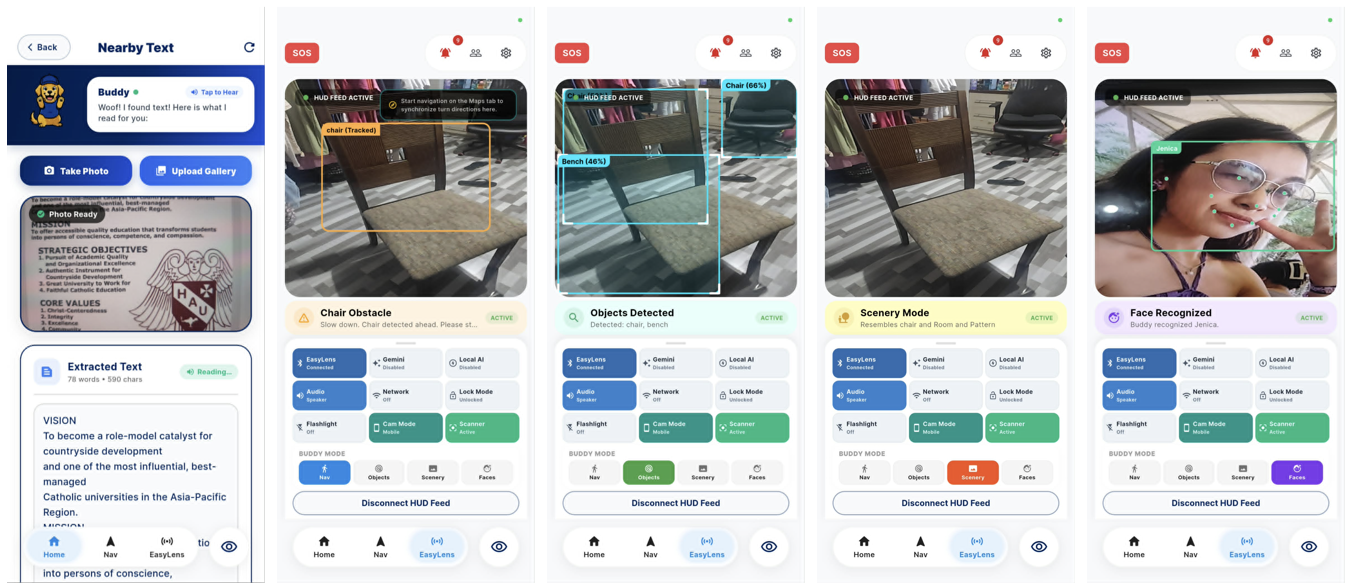
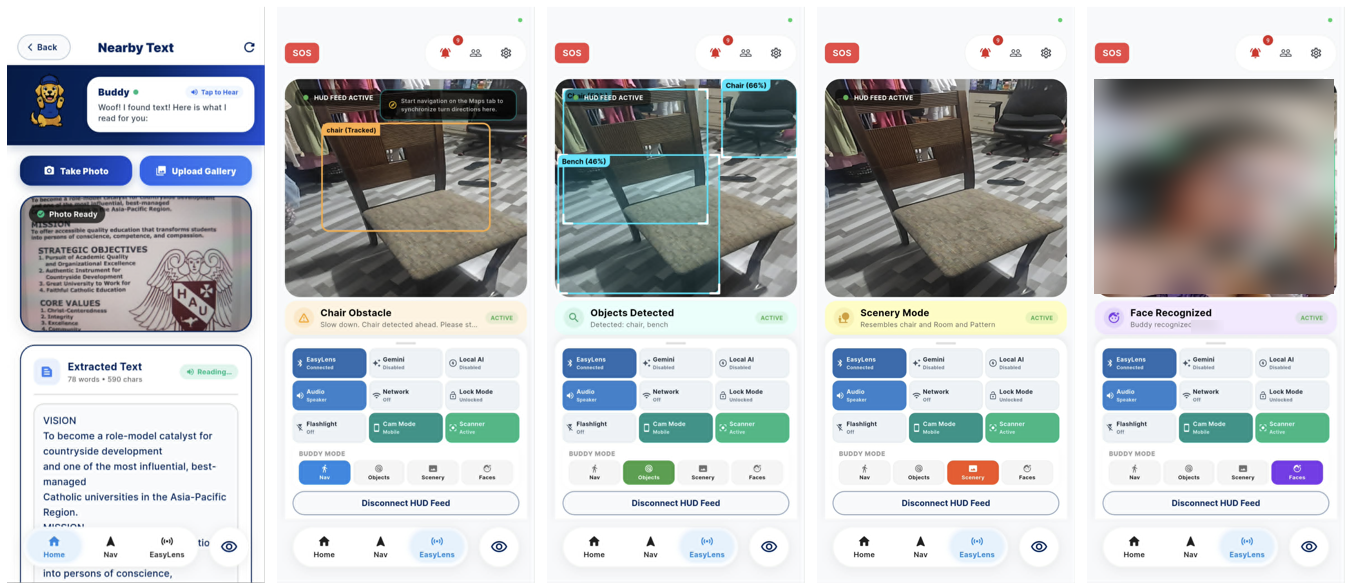
docs(figures): blur face and name in Figure K.3

Changed region(s): [[0.8077, 0.1227, 0.9941, 0.5213]]

diff --git a/docs/figures/14_appendix_k_application_screens.md b/docs/figures/14_appendix_k_application_screens.md
@@ -36,7 +36,7 @@ Note. The dashboard's six action buttons: Talk to Buddy (Local AI), EasyLens, Re
 Figure K.3
 Nearby Text Reader and EasyLens Camera Modes
 
-Note. The Nearby Text reader (left) and the EasyLens camera screen in Navigation, Object Detection, Scenery and Face Recognition modes.
+Note. The Nearby Text reader (left) and the EasyLens camera screen in Navigation, Object Detection, Scenery and Face Recognition modes. The face and name in the Face Recognition screen are blurred for privacy.
 ```
 
 ---
